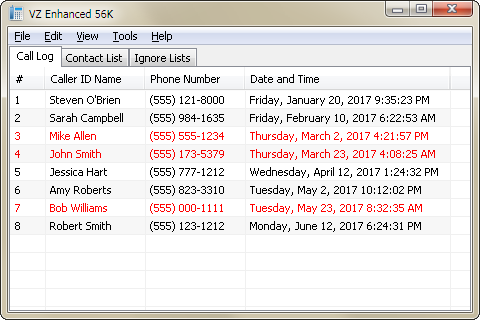
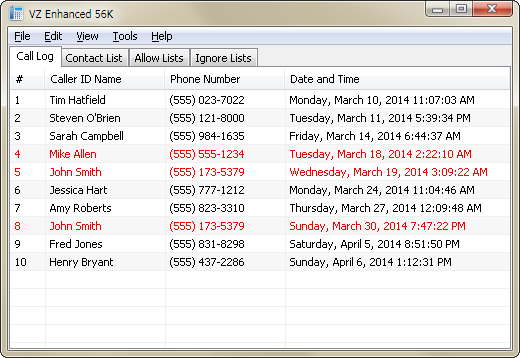
Updated VZ Enhanced 56K release.

Changed region(s): [[0.0, 0.0, 1.0, 1.0]]

diff --git a/index.html b/index.html
@@ -73,8 +73,10 @@
 
 			<div class="info">
 				<div class="links">
-					<p><a class="button" href="https://github.com/erickutcher/vzenhanced56k/releases/download/v1.0.0.5/VZ_Enhanced_56K.zip">Download VZ Enhanced 56K</a></p>
-					<p>Version 1.0.0.5<br />Released on 11/4/2018</p>
+					<p><a class="button" href="https://github.com/erickutcher/vzenhanced56k/releases/download/v1.0.0.6/VZ_Enhanced_56K_32.zip">Download VZ Enhanced 56K 32-bit</a></p>
+					<br />
+					<p><a class="button" href="https://github.com/erickutcher/vzenhanced56k/releases/download/v1.0.0.6/VZ_Enhanced_56K_64.zip">Download VZ Enhanced 56K 64-bit</a></p>
+					<p>Version 1.0.0.6<br />Released on 5/19/2019</p>
 					<p><a href="https://github.com/erickutcher/vzenhanced56k">View project on GitHub</a></p>
 					<p><a id="vzenhanced56k_a" onclick="show_hide( this, 'vzenhanced56k' );" style="cursor: pointer;">More Info &#x25BE;</a></p>
 				</div>
@@ -88,17 +90,17 @@
 
 				<p>When you have an incoming call, you can right click the entry in the <b>Call Log</b> and choose to ignore the incoming call. If you ignore the call, then you will be disconnected from the caller and your phone will stop ringing.</p>
 
-				<p>Of course you don't have to manually do any of this. VZ Enhanced 56K has two supplementary lists that can automate the process of ignoring incoming calls. This is a great way to fight back against annoying telemarketers. Select the <b>Ignore Lists</b> tab from the main window to access these features. Right click a list to add an entry. The ignore phone number list will prompt you for a phone number to automatically ignore whenever that number calls. You can ignore an incoming phone number based on the caller ID name as well. Select the ignore caller ID name list to add entries.</p>
+				<p>Of course you don't have to manually do any of this. VZ Enhanced 56K has two supplementary lists that can automate the process of ignoring incoming calls. This is a great way to fight back against annoying telemarketers. Select the <b>Ignore Lists</b> tab from the main window to access these features. Right click a list to add an entry. The ignore phone number list will prompt you for a phone number to automatically ignore whenever that number calls. You can ignore an incoming phone number based on the caller ID name as well. Select the ignore caller ID name list to add entries. Caller ID names can be ignored using regular expressions.</p>
 
 				<p>If you would like to ignore a range of phone numbers (up to 15 digits), you can specify a wildcard value '*' in replace of a digit. For example, suppose you want to ignore a 10-digit phone number with an area code of 555. In the ignore text box you would type the following: 555******* This represents a range from (555) 000-0000 to (555) 999-9999. In total, 10 million numbers will be blocked by using this example. Pretty cool, huh?</p>
 
 				<p>Now here's something even cooler. The following four entries will block all invalid 10-digit US phone numbers. These particular phone numbers are guaranteed to be fake and can be outright ignored without consequence.<br />0*********<br />1*********<br />***0******<br />***1******<br />These four entries will block 3.6 billion potential telemarketers.</p>
 
+				<p>The <b>Allow Lists</b> work similarly to the <b>Ignore Lists</b>, but they allow calls to come through. The <b>Allow Lists</b> have precedence over the <b>Ignore Lists</b>. Knowing this, you can turn the program into a whitelist blocker instead of a blacklist blocker.</p>
+
 				<p>It should be noted that the phone number lists have precedence over the caller ID name lists.</p>
 
 				<p>VZ Enhanced 56K has various options to configure the behavior of the program. The options can be accessed from <b>Tools</b> > <b>Options...</b> The first tab that appears is the <b>General</b> tab. In it you can choose to display the System Tray icon which will generally appear on the lower right corner of the taskbar (next to the clock). The program can be set to minimum to the System Tray instead of to the taskbar and close to the System Tray instead of exiting the program. The <b>Silent startup</b> option causes the program to be hidden in the System Tray when it's loaded. This way you don't have to hide or minimize the program while it logs in. <b>Always on top</b> will cause all the program's windows to appear on top of every other program's windows. <b>Enable Call Log history</b> will save the entries in the <b>Call Log</b> so that they can be loaded the next time the program starts. If left unchecked, then any <b>Call Log</b> history will be lost. Finally, the <b>Log events to Message Log</b> will log various events such as connection attempts and list modifications to the <b>Message Log</b>. You can access the <b>Message Log</b> by clicking the <b>View</b> > <b>Message Log</b> menu.</p>
-
-				<p>The <b>Connection</b> tab handles connection related settings. <b>Reconnect upon connection loss</b> determine how many reconnect attempts are made to establish a connection. You may want to set this to a large value if you're on a flaky wireless connection. The <b>Timeout</b> setting determines how long (in seconds) a connection will attempt to connect before it fails. As with the reconnection attempts, you may want to set this to a large value if you're on a flaky wireless connection. The <b>SSL / TLS version</b> is used to change the encryption protocol version. It should be left as TLS 1.0. Finally, you can <b>Check for updates upon startup</b> to see if there's any updates for VZ Enhanced 56K.</p>
 
 				<p>The <b>Modem</b> tab handles modem related settings. If a modem is found on the system, it'll be listed in the <b>Default modem</b> dropdown list. If the modem supports voice communication, then you'll be able to select <b>Play recording when call is answered</b>. To allow the program to load recording files, create a folder called <b>recordings</b> in the same directory as <b>VZ_Enhanced_56K.exe</b>. Recordings should be <b>8 bit</b> or <b>16 bit</b> <b>.wav</b> files with a frequency of <b>8000 Hz</b>. The recording can be repeated up to 10 times, although you should keep the total length (including repeats) to 30 seconds or less. Finally, the <b>Drop answered calls</b> settings will drop the answered call after the selected amount of seconds. It is recommended to keep this set to 4 or more seconds so that the call has time to drop properly after it's been answered.</p>
 
